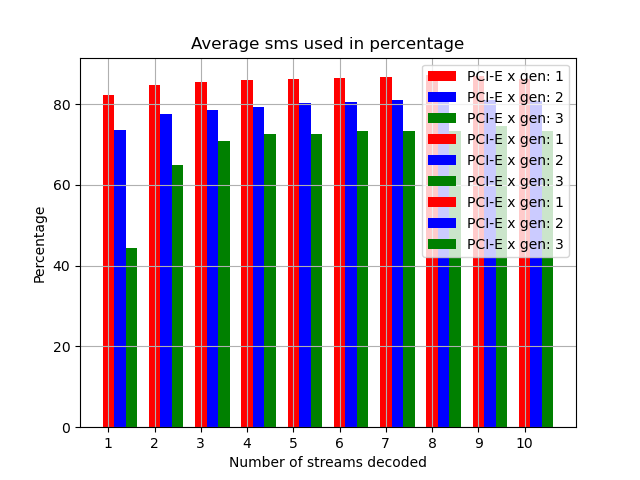
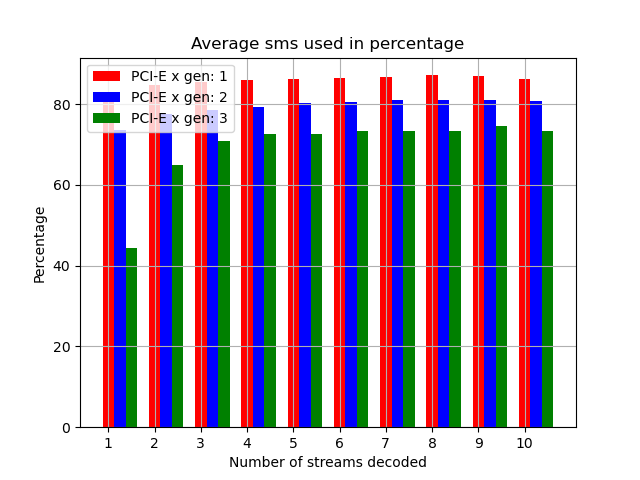
Fix legend

Changed region(s): [[0.6562, 0.125, 0.9062, 0.5625], [0.125, 0.125, 0.375, 0.2812]]

diff --git a/handin_2/build_graphs.py b/handin_2/build_graphs.py
@@ -100,6 +100,7 @@ def build_stress_test_bar_chart(test_type:str):
     names = ["time", "sm", "dec", "enc", "tx", "rx"]
     for i, n in enumerate(names):
         plt.figure(i)
+        plt.legend()
         plt.grid()
         plt.xticks([r + bar_width for r in range(0, FOLDS - 1)], [i for i in range(1, FOLDS)])
         plt.xlabel("Number of streams decoded")
@@ -109,8 +110,9 @@ def build_stress_test_bar_chart(test_type:str):
             plt.ylabel("Seconds")
         else:
             plt.ylabel("GiB/s")
-        plt.legend()
         plt.savefig(os.path.join(OUT_PATH, f"{test_type}_graph_{n}.png"))
+        plt.clf()
+        plt.cla()
 
 if not os.path.exists(OUT_PATH):
     os.mkdir(OUT_PATH)
